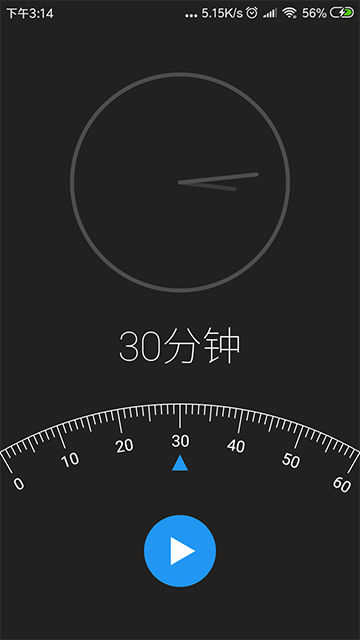
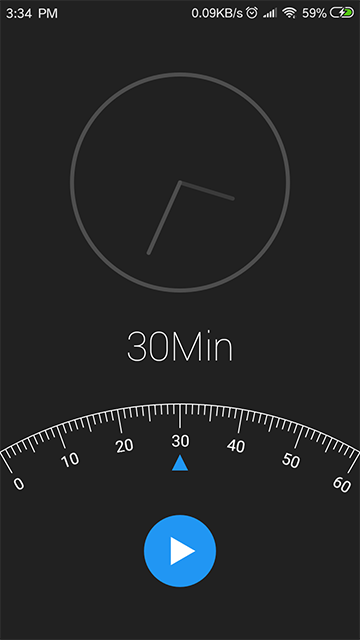
[update] README.md

diff --git a/README.md b/README.md
@@ -8,6 +8,8 @@ For short time countdown, just support `[1~60]` minutes countdown.
 
 ![config](./screenshot/config.png) ![countdown](./screenshot/countdown.png)
 
+![config](./screenshot/config_zh.png) ![countdown](./screenshot/countdown_zh.png)
+
 ## License
 
 ```
